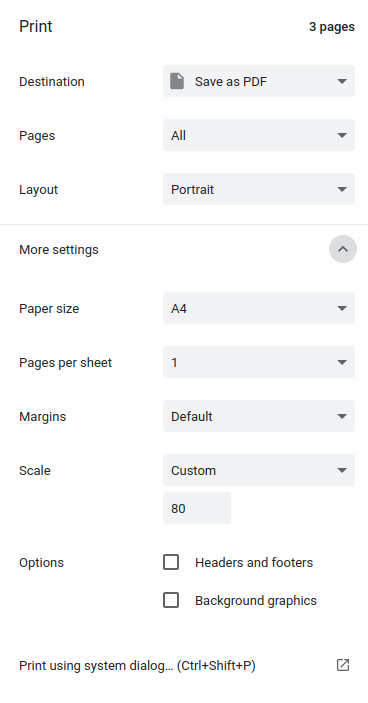
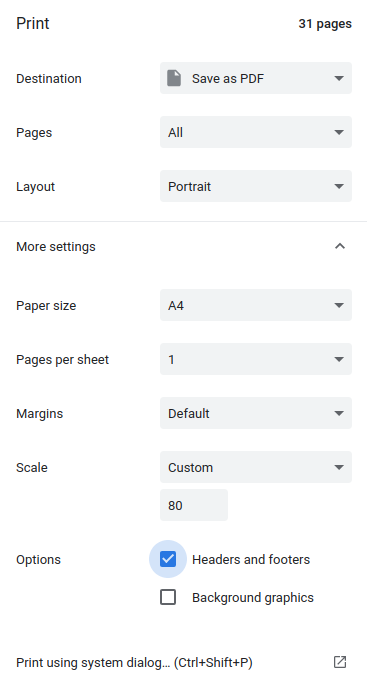
add content

diff --git a/demo.py b/demo.py
@@ -35,7 +35,8 @@ def main():
     if not check:
         print('Codes are too long, please fix them.')
         sys.exit()
-      
+    
+    content = []
     line_list = []
     for fn in file_list:
         if len(line_list) > 0:
@@ -45,29 +46,41 @@ def main():
             for i in range(n):
                 line_list.append('\n')
         
-        n = int((args.max_length - len(fn))/2)
-        line_list.append('{}{}{}\n'.format('-'*n, fn, '-'*n))
+        # add to content
+        short_fn = fn[len(args.code_folder)+1:]
+        content.append('({}) {}[{}]\n'.format(len(content) + 1, short_fn, int(len(line_list)/args.page_lines) + 1))
+
+        # add title
+        n = int((args.max_length - len(short_fn))/2)
+        line_list.append('{}{}{}\n'.format('-'*n, short_fn, '-'*n))
         line_list.append('\n')
-        i = 0
+
         with open(fn, 'r') as fr:
             line_list.extend(fr.readlines())
     if not os.path.exists(os.path.join('highlight/styles', args.style)):
         print('The style file [{}] is not exist.'.format(args.style))
         sys.exit()
     
+    project_name = args.code_folder.split('/')[-1]
+
     head = """
         <!DOCTYPE html><html><head lang="en">
-        <meta charset="UTF-8"><title>CodePrinter</title>
+        <meta charset="UTF-8"><title>{}</title>
         <link rel="stylesheet" href="highlight/styles/{}">
         <script src="highlight/highlight.pack.js"></script>
         <body><script>hljs.initHighlightingOnLoad();</script>
-        <pre><code class="python">""".format(args.style)
+        <pre><code class="python">""".format(project_name, args.style)
     tail = """</code></pre></body></html>"""
 
-    with open('CodePrinter.html', 'w') as fw:
+    with open(project_name + '.html', 'w') as fw:
         fw.write(head)
         fw.writelines(line_list)
         fw.write(tail)
+
+    # save content
+    with open(project_name + '_content.txt', 'w') as fw:
+        fw.write(project_name + '\n')
+        fw.writelines(content)
 
 
 if __name__ == "__main__":

diff --git a/README.md b/README.md
@@ -12,5 +12,6 @@ python demo.py -c path/to/your/code -f cpp,py
 ```
 python demo.py -c path/to/your/code -f py -s a11y-dark.css
 ```
-### Use GoogleChrome to open CodePrinter.html and print it
+You will get [Project].html [Project_content].txt
+### Use GoogleChrome to open *.html and print it
 ![Google Chrome Printer(Ctrl+P)](config.png)
